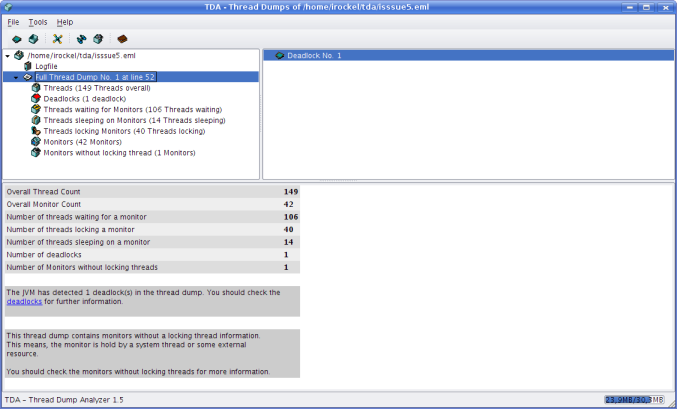
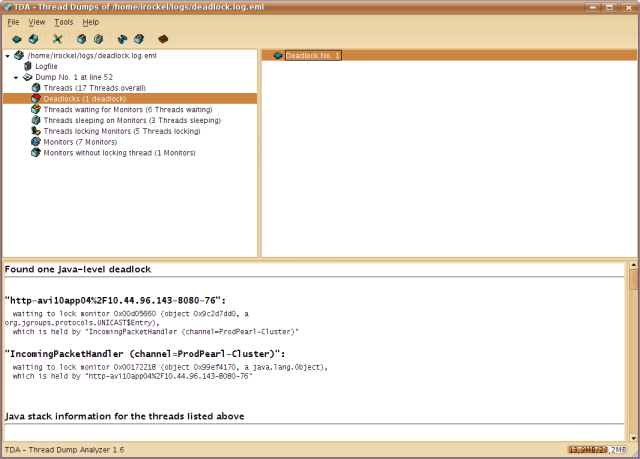
updated screenshots for 1.6 release. added screenshot for long running threads detection.

diff --git a/tda/src/java/com/pironet/tda/doc/overview.html b/tda/src/java/com/pironet/tda/doc/overview.html
@@ -178,7 +178,12 @@ versions.</p>
 <p><a name="longrunningthreads"><h3>Find long running threads</h3></a>
 A common usecase for thread dump analysis is the long running thread detection. TDA offers some help for finding these long running threads. 
 The "Find long running threads" option in the tools menu or from the popup menu in the main tree checks for long running threads in 
-marked thread dumps in the main tree. The analysis is quite simple though, it just compares the thread names and if they match
+marked thread dumps in the main tree. </p>
+
+<p><center><img src="longrunning.png" border=0>
+<br><i>Long running threads detection</i></center></p>
+
+<p>The analysis is quite simple though, it just compares the thread names and if they match
 adds the thread to the result. A regular expression can be specified for filtering just the interesting threads. Additionally the usual 
 filters are applied to the result view of the analysis to filter out uninteresting threads. For a useful result appropriate filters should
 be specified to filter out all sleeping and uninteresting threads.</p>
